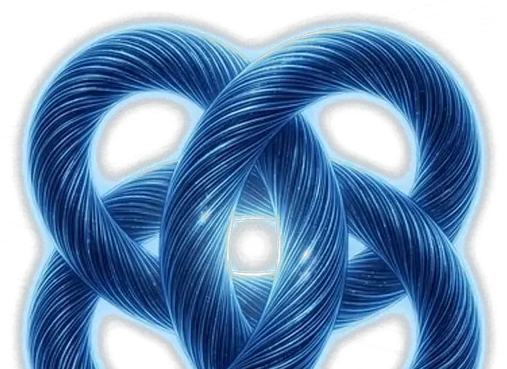
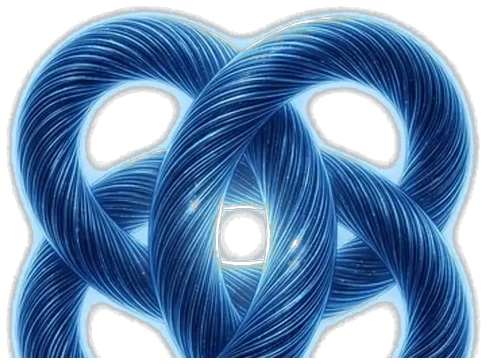
fix(vision): recortar los 4 iconos sin artefactos de IA (segmentacion -> canal alfa real)
Los WEBP de vision-iconos/ se habian generado con un metodo de
segmentacion por IA que dejaba bordes en escalera y un halo blanquecino
alrededor de cada icono (reportado por el usuario con captura del sitio
en local). Se vuelven a recortar desde fondo-vision-red.webp aprovechando
su canal alfa real, mismo criterio que scripts/separar-iconos-vision.py,
sin pasar por segmentacion por IA. No se toca index.html ni
css/styles.css, mismos 4 nombres de archivo. Proporciones ancho/alto
verificadas contra las anteriores para no romper el posicionamiento en %
ya calibrado en .vision-icon--*.

Actualiza memoria.md y changelog.md.

diff --git a/changelog.md b/changelog.md
@@ -8,6 +8,68 @@
 > wizard de nutrición, "Mi plan", backend, ilustraciones, etc.) quedó
 > archivado completo en `historico/changelog-2026-09-14.md`.
 
+## 2026-09-17 (cuadragésima segunda tanda) — íconos de Visión recortados de nuevo, sin artefactos de fondo
+
+Commit: ver hash en el archivo `.patch` generado para esta tanda.
+
+El usuario mandó una captura del sitio corriendo en local (`127.0.0.1:5500`)
+mostrando que los 4 íconos de `#lam-02` (Visión) ya eran visibles (fix de
+la tanda anterior funcionó) pero se veían mal: bordes pixelados/en
+escalera y un halo blanquecino cuadrado alrededor de cada uno, sobre todo
+notorio en cerebro y reloj de arena.
+
+- **Causa**: los 4 archivos en `img/decoraciones-neurona/vision-iconos/`
+  se habían generado en una sesión anterior con un método de
+  segmentación por IA (tipo "remove.bg") sobre el recorte ya compuesto,
+  en vez de aprovechar el canal alfa real que ya trae
+  `fondo-vision-red.webp`. Esa segmentación por IA metía artefactos
+  (bordes con escalera, manchas semitransparentes) que no existían en
+  el archivo fuente.
+- **Fix**: mismo criterio que ya usa `scripts/separar-iconos-vision.py`
+  (recortar directo por transparencia real, sin IA) pero con dos mejoras:
+  1. Antes de buscar el bounding box de cada ícono, se ponen en alfa 0
+     los píxeles con alfa < 60 — descarta los listones/líneas decorativas
+     de fondo (alfa muy bajo, <20 típicamente) para que no se cuelen
+     dentro del recorte de cada ícono ni corran el bounding box.
+  2. El bounding box de cada ícono se calcula por **componentes
+     conectados** (`scipy.ndimage.label`) en vez de una ventana de
+     búsqueda por porcentaje fija — más robusto si el ícono no está
+     exactamente donde se lo esperaba.
+  Recortado con margen chico (6px) de aire alrededor, mismo criterio que
+  `MARGEN_PX` del script existente. Fuente: `fondo-vision-red.webp` (la
+  versión ya agrandada ~1.35x, no el archivo original que subió el
+  usuario en el chat) — importante para que las proporciones de cada
+  ícono sigan coincidiendo con los `width`/`left`/`top` en % que ya
+  calibró `.vision-icon--*` en `css/styles.css`; se comparó el ratio
+  ancho/alto de cada ícono nuevo contra el viejo y quedó prácticamente
+  igual (cerebro 1.56→1.52, red neuronal 1.72→1.69, reloj 0.81→0.76,
+  cintas 1.37→1.34).
+- **No se tocó** `index.html` ni `css/styles.css` — mismos 4 nombres de
+  archivo (`icon-cerebro.webp`, `icon-red-neuronal.webp`,
+  `icon-reloj-arena.webp`, `icon-cintas-azules.webp`), mismo directorio,
+  solo cambió el contenido de los WEBP.
+- **Nota (no regresión, preexistente)**: 3 de los 4 íconos (red neuronal,
+  reloj de arena, cintas azules) ya venían levemente cortados contra el
+  borde del lienzo de 1700×1040 desde el agrandado de una sesión
+  anterior — se confirmó con `git stash` que el archivo commiteado
+  anterior **ya tenía el mismo corte** (p. ej. `icon-red-neuronal.webp`
+  con alfa=255 en la fila 0). Este patch no lo corrige, solo deja de
+  agregar artefactos de IA encima; si se quiere arreglar el corte en sí
+  hace falta volver a agrandar el ícono dentro de un lienzo con más
+  margen, tarea aparte.
+- **Verificación**: de nuevo sin Chromium/Playwright disponible en este
+  entorno (falla por falta de red al dominio de descarga, igual que
+  tandas anteriores). Se revisó a ojo cada WEBP resultante (los 4, ver
+  detalle de proporciones arriba) y se confirmó con `git stash`/`git
+  stash pop` el contenido de los archivos antes de tocarlos. **Falta**
+  confirmar en el navegador real del usuario que ahora se ven limpios
+  (sin el halo/escalera de la captura) y que el tamaño/posición sigue
+  bien (no debería cambiar, mismas proporciones, pero no se verificó
+  con una captura nueva).
+- No se tocó JS, `npm test` no debería verse afectado (solo cambian 4
+  WEBP).
+- Actualizados `memoria.md` y este archivo.
+
 ## 2026-09-17 (cuadragésima primera tanda) — fix: los 4 íconos de Visión no se veían (display:none sin revertir)
 
 Commit: ver hash en el archivo `.patch` generado para esta tanda.

diff --git a/memoria.md b/memoria.md
@@ -1622,6 +1622,20 @@ tests sin cambios (46/46 ok, este fix es puro CSS).
 
 ## Pendientes conocidos
 
+**Íconos de Visión recortados de nuevo sin artefactos de IA (sesión
+2026-09-17, cuadragésima segunda tanda).** Los 4 WEBP de
+`img/decoraciones-neurona/vision-iconos/` (que la tanda anterior había
+generado con segmentación por IA sobre el recorte ya compuesto) se
+volvieron a recortar desde `fondo-vision-red.webp` aprovechando su canal
+alfa real (mismo criterio que `scripts/separar-iconos-vision.py`, sin
+IA), lo que eliminó el halo blanquecino/bordes en escalera que el
+usuario reportó viendo en local. Detalle completo en `changelog.md`,
+cuadragésima segunda tanda. **Falta**: confirmar en el navegador que se
+ven limpios y bien posicionados (no se pudo tomar captura nueva en esta
+sesión). Sigue sin resolverse el corte contra el borde del lienzo en 3
+de los 4 íconos (preexistente, no introducido en esta tanda — ver nota
+en el changelog).
+
 **Íconos de Visión separados en 4 archivos individuales (sesión
 2026-09-17, cuadragésima/cuadragésima primera tanda) — bug encontrado y
 corregido.** La primera vuelta (cuadragésima tanda) se hizo sin
